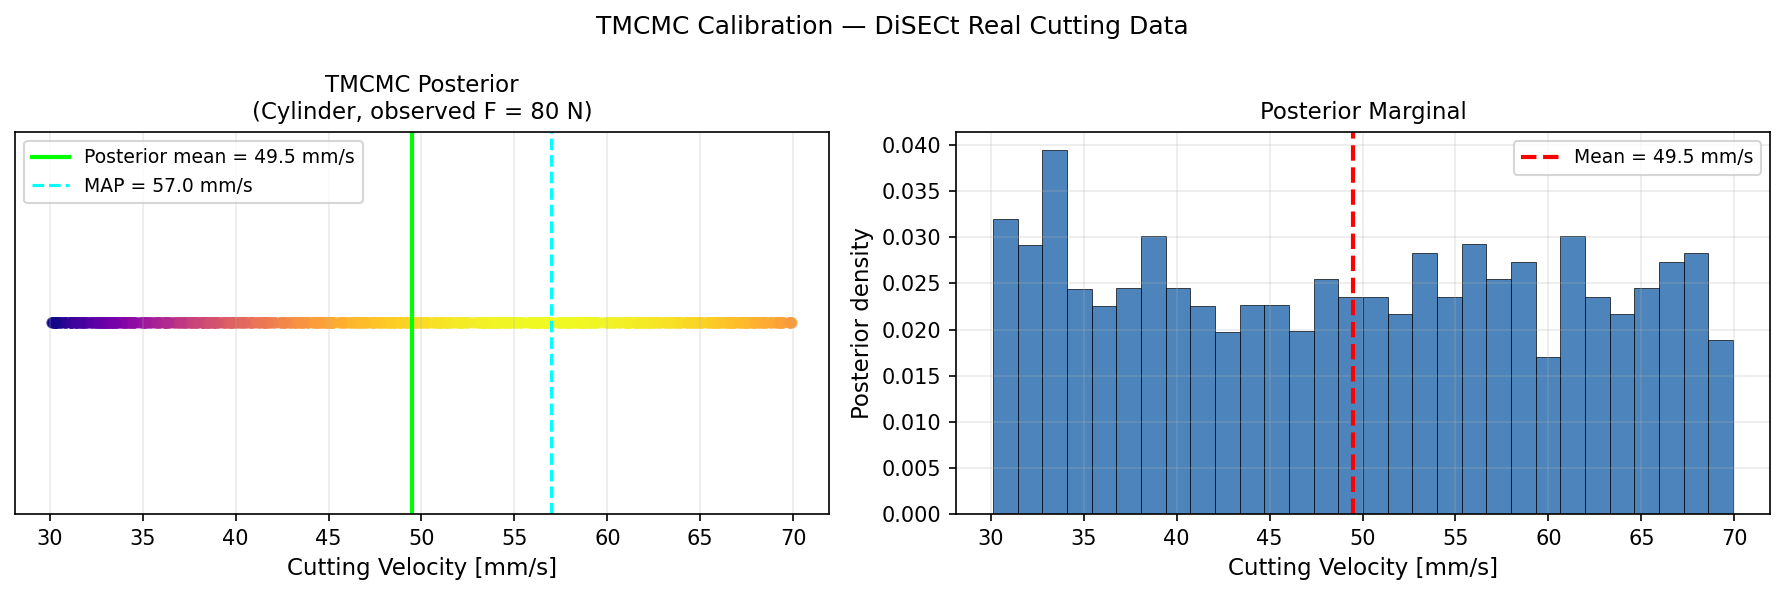
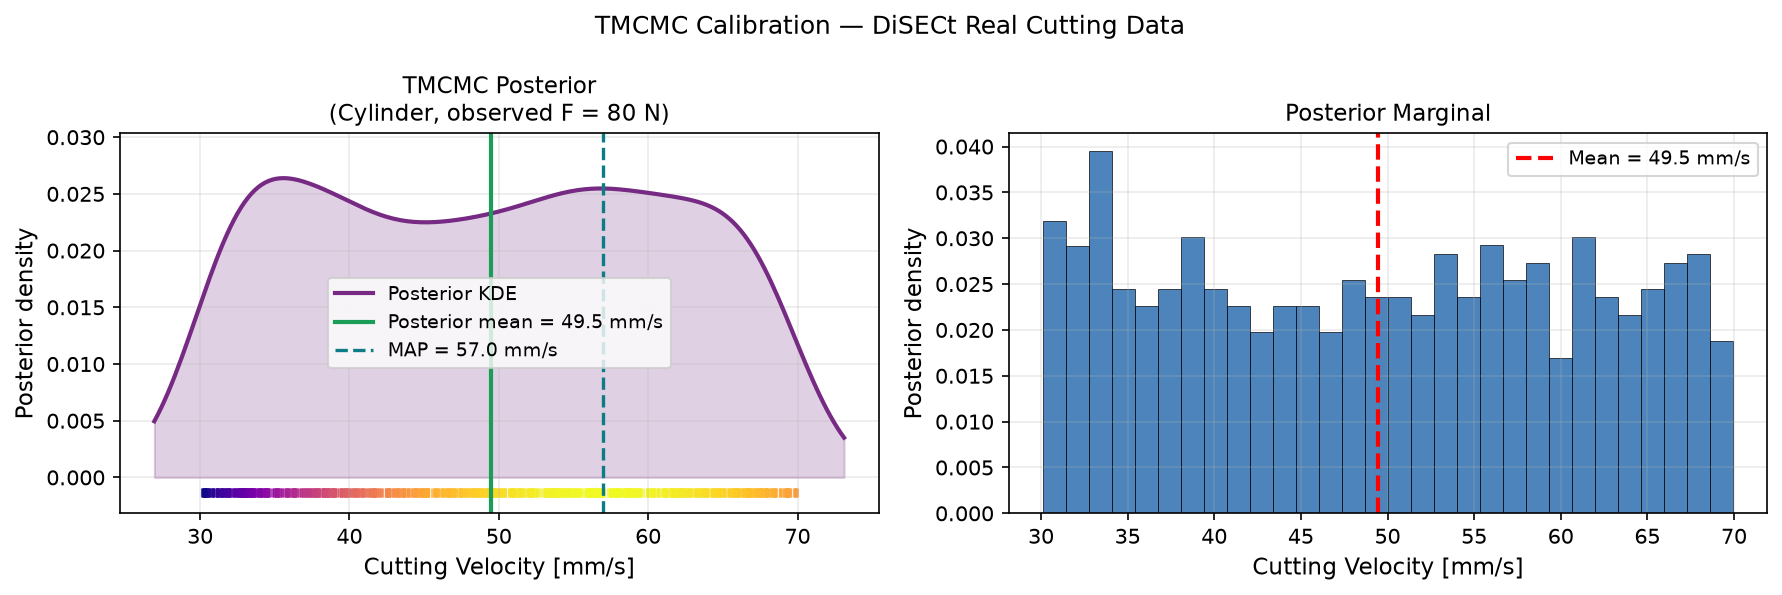
fix(viz): replace empty 1-D strip in TMCMC posterior plot with weighted KDE
The left panel of the DiSECt TMCMC calibration figure plotted all posterior
samples on a single y=0 line, so on the landing-page gallery it rendered as a
near-empty rainbow strip that looked broken. Replace it with a proper filled
weighted-KDE posterior density plus a weight-coloured sample rug and the
mean/MAP lines — a legible Bayesian posterior that complements the binned
marginal on the right. Regenerated results/disect_tmcmc_calibration.png.

Claude-Session: https://claude.ai/code/session_01B8Uuo5Mvyt9ET7e3jyCyTp

Changed region(s): [[0.0, 0.121, 0.9877, 0.9681], [0.3395, 0.0303, 0.679, 0.0605]]

diff --git a/ml/disect_surrogate_demo.py b/ml/disect_surrogate_demo.py
@@ -218,17 +218,34 @@ def plot_tmcmc(result: dict, out_dir: str = RESULTS_DIR):
     fig, axes = plt.subplots(1, 2, figsize=(12, 4))
 
     ax = axes[0]
-    ax.scatter(samples, np.zeros_like(samples),
-               c=weights, cmap="plasma", s=20, alpha=0.7)
-    ax.axvline(result["mean_vel"], color="lime", lw=2,
+    # Smooth weighted posterior density (KDE) with a weight-coloured rug of the
+    # actual TMCMC samples underneath — far more legible than a 1-D strip plot.
+    w = np.asarray(weights, dtype=float)
+    w = w / w.sum() if w.sum() > 0 else np.ones_like(w) / len(w)
+    lo, hi = samples.min(), samples.max()
+    pad = 0.08 * (hi - lo + 1e-9)
+    xs = np.linspace(lo - pad, hi + pad, 200)
+    try:
+        from scipy.stats import gaussian_kde
+        dens = gaussian_kde(samples, weights=w)(xs)
+    except Exception:                       # weightless fallback
+        from scipy.stats import gaussian_kde
+        dens = gaussian_kde(samples)(xs)
+    dmax = float(dens.max()) if dens.max() > 0 else 1.0
+    ax.fill_between(xs, dens, color="#762a83", alpha=0.22)
+    ax.plot(xs, dens, color="#762a83", lw=2, label="Posterior KDE")
+    ax.scatter(samples, np.full_like(samples, -0.05 * dmax),
+               c=weights, cmap="plasma", s=16, alpha=0.75, marker="|")
+    ax.axvline(result["mean_vel"], color="#1a9e57", lw=2,
                label=f"Posterior mean = {result['mean_vel']:.1f} mm/s")
-    ax.axvline(result["map_vel"],  color="cyan", lw=1.5, ls="--",
+    ax.axvline(result["map_vel"],  color="#0e7c86", lw=1.6, ls="--",
                label=f"MAP = {result['map_vel']:.1f} mm/s")
     ax.set_xlabel("Cutting Velocity [mm/s]", fontsize=11)
+    ax.set_ylabel("Posterior density", fontsize=11)
+    ax.set_ylim(-0.12 * dmax, 1.15 * dmax)
     ax.set_title(f"TMCMC Posterior\n({result['geometry'].capitalize()}, "
                  f"observed F = {result['observed_N']:.0f} N)", fontsize=11)
     ax.legend(fontsize=9)
-    ax.set_yticks([])
     ax.grid(alpha=0.25)
 
     ax = axes[1]
